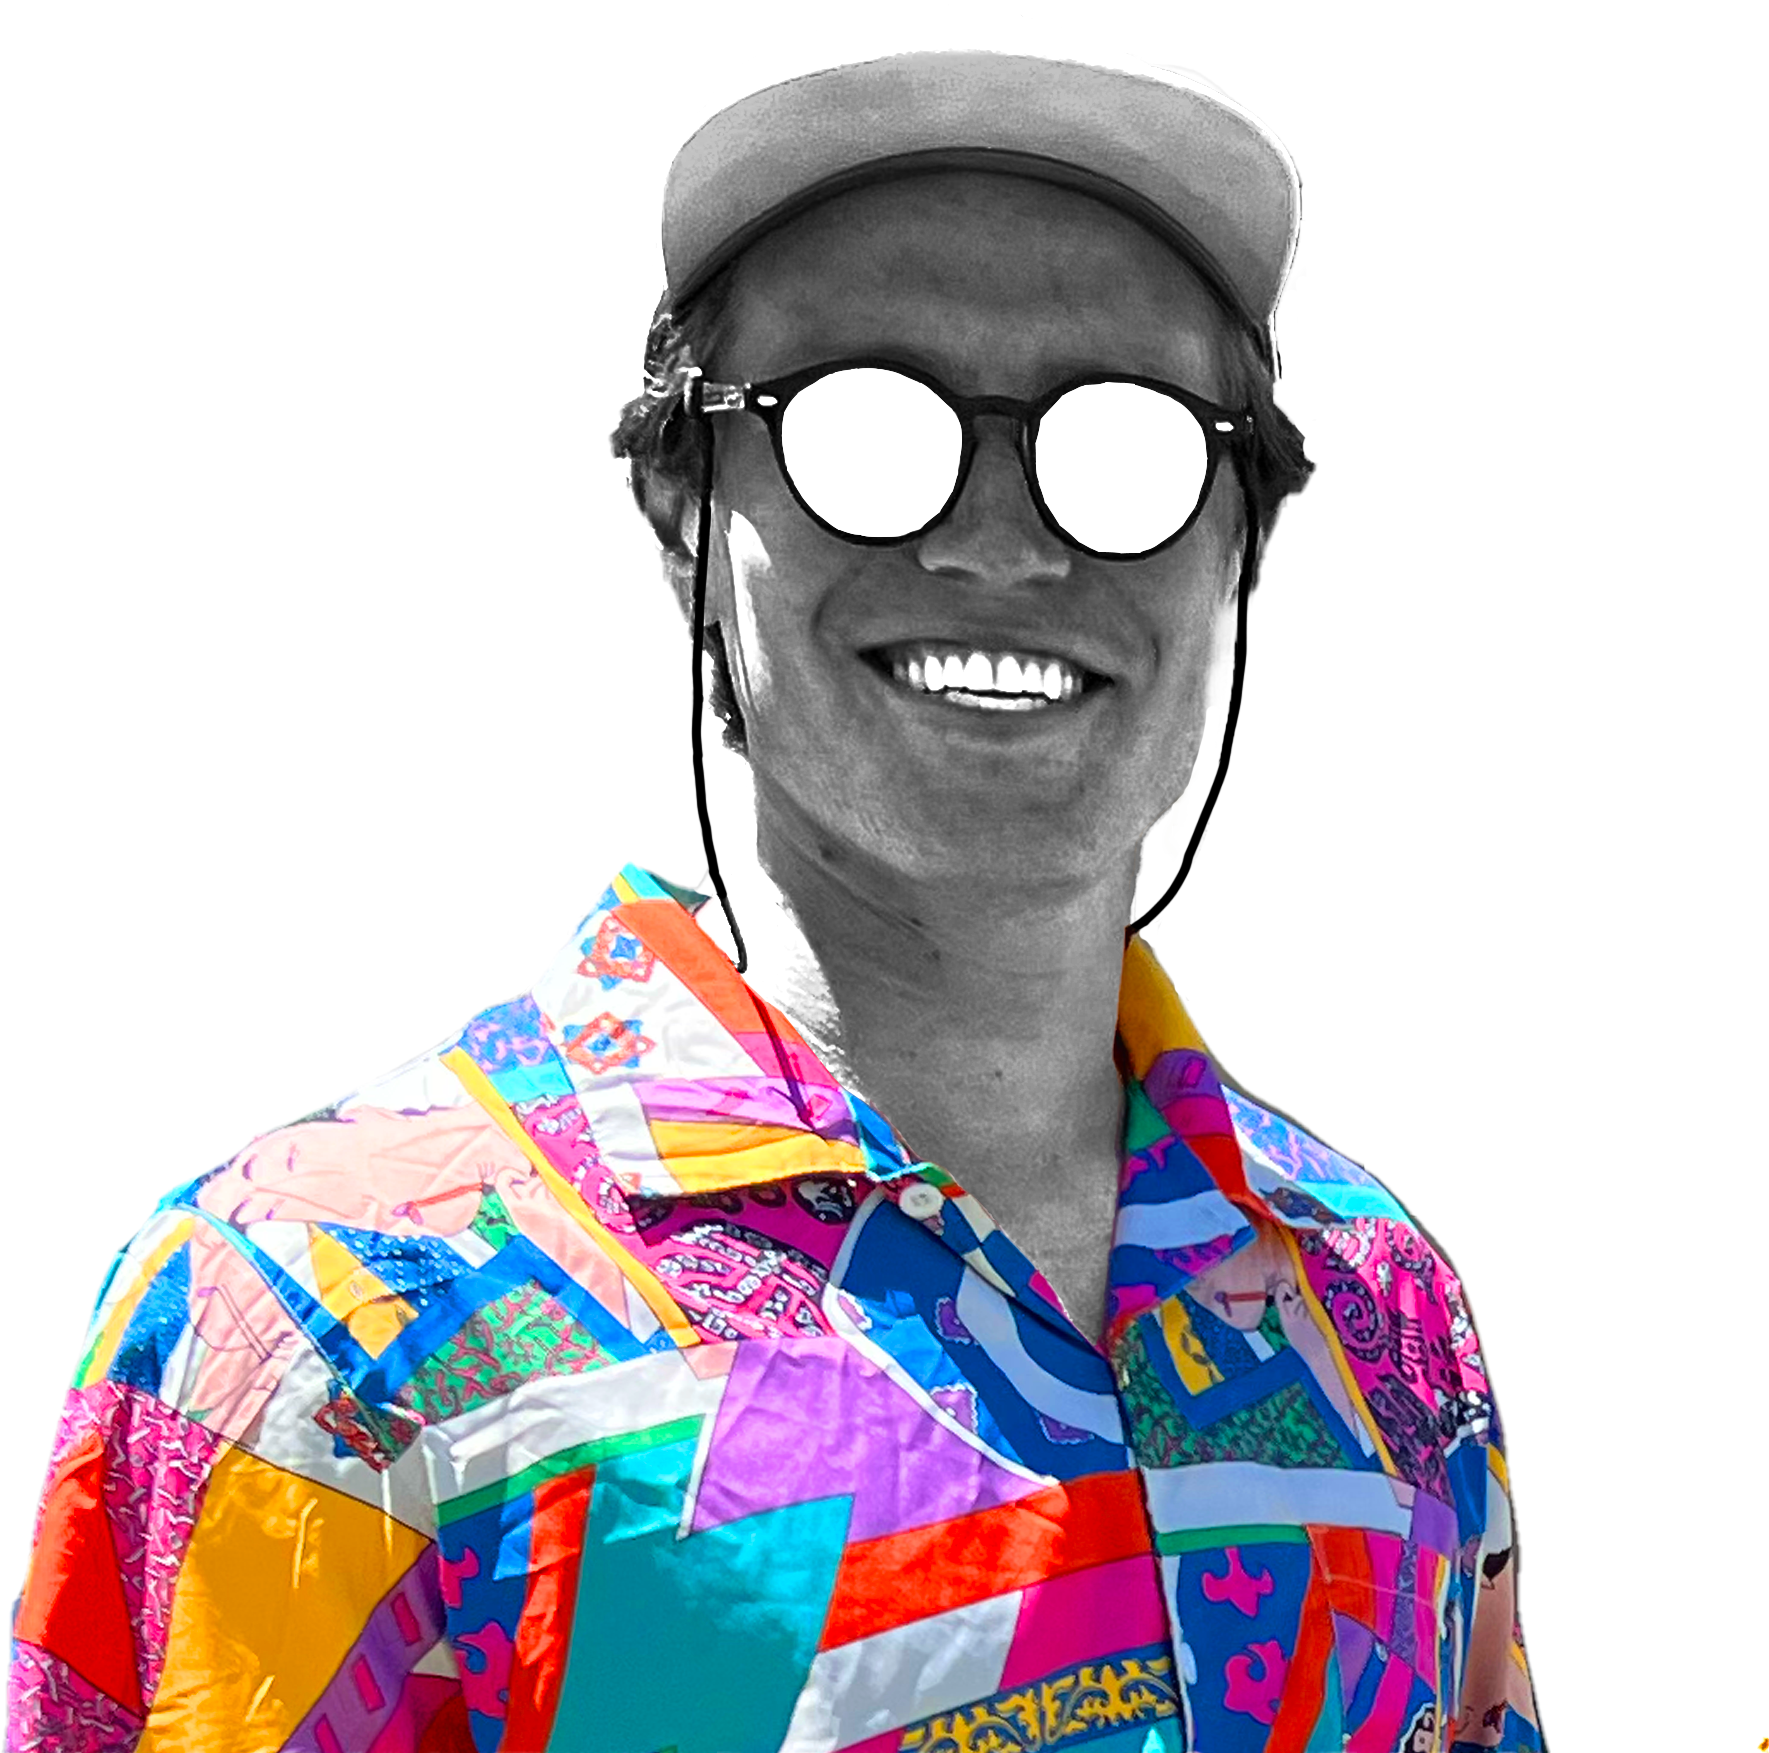
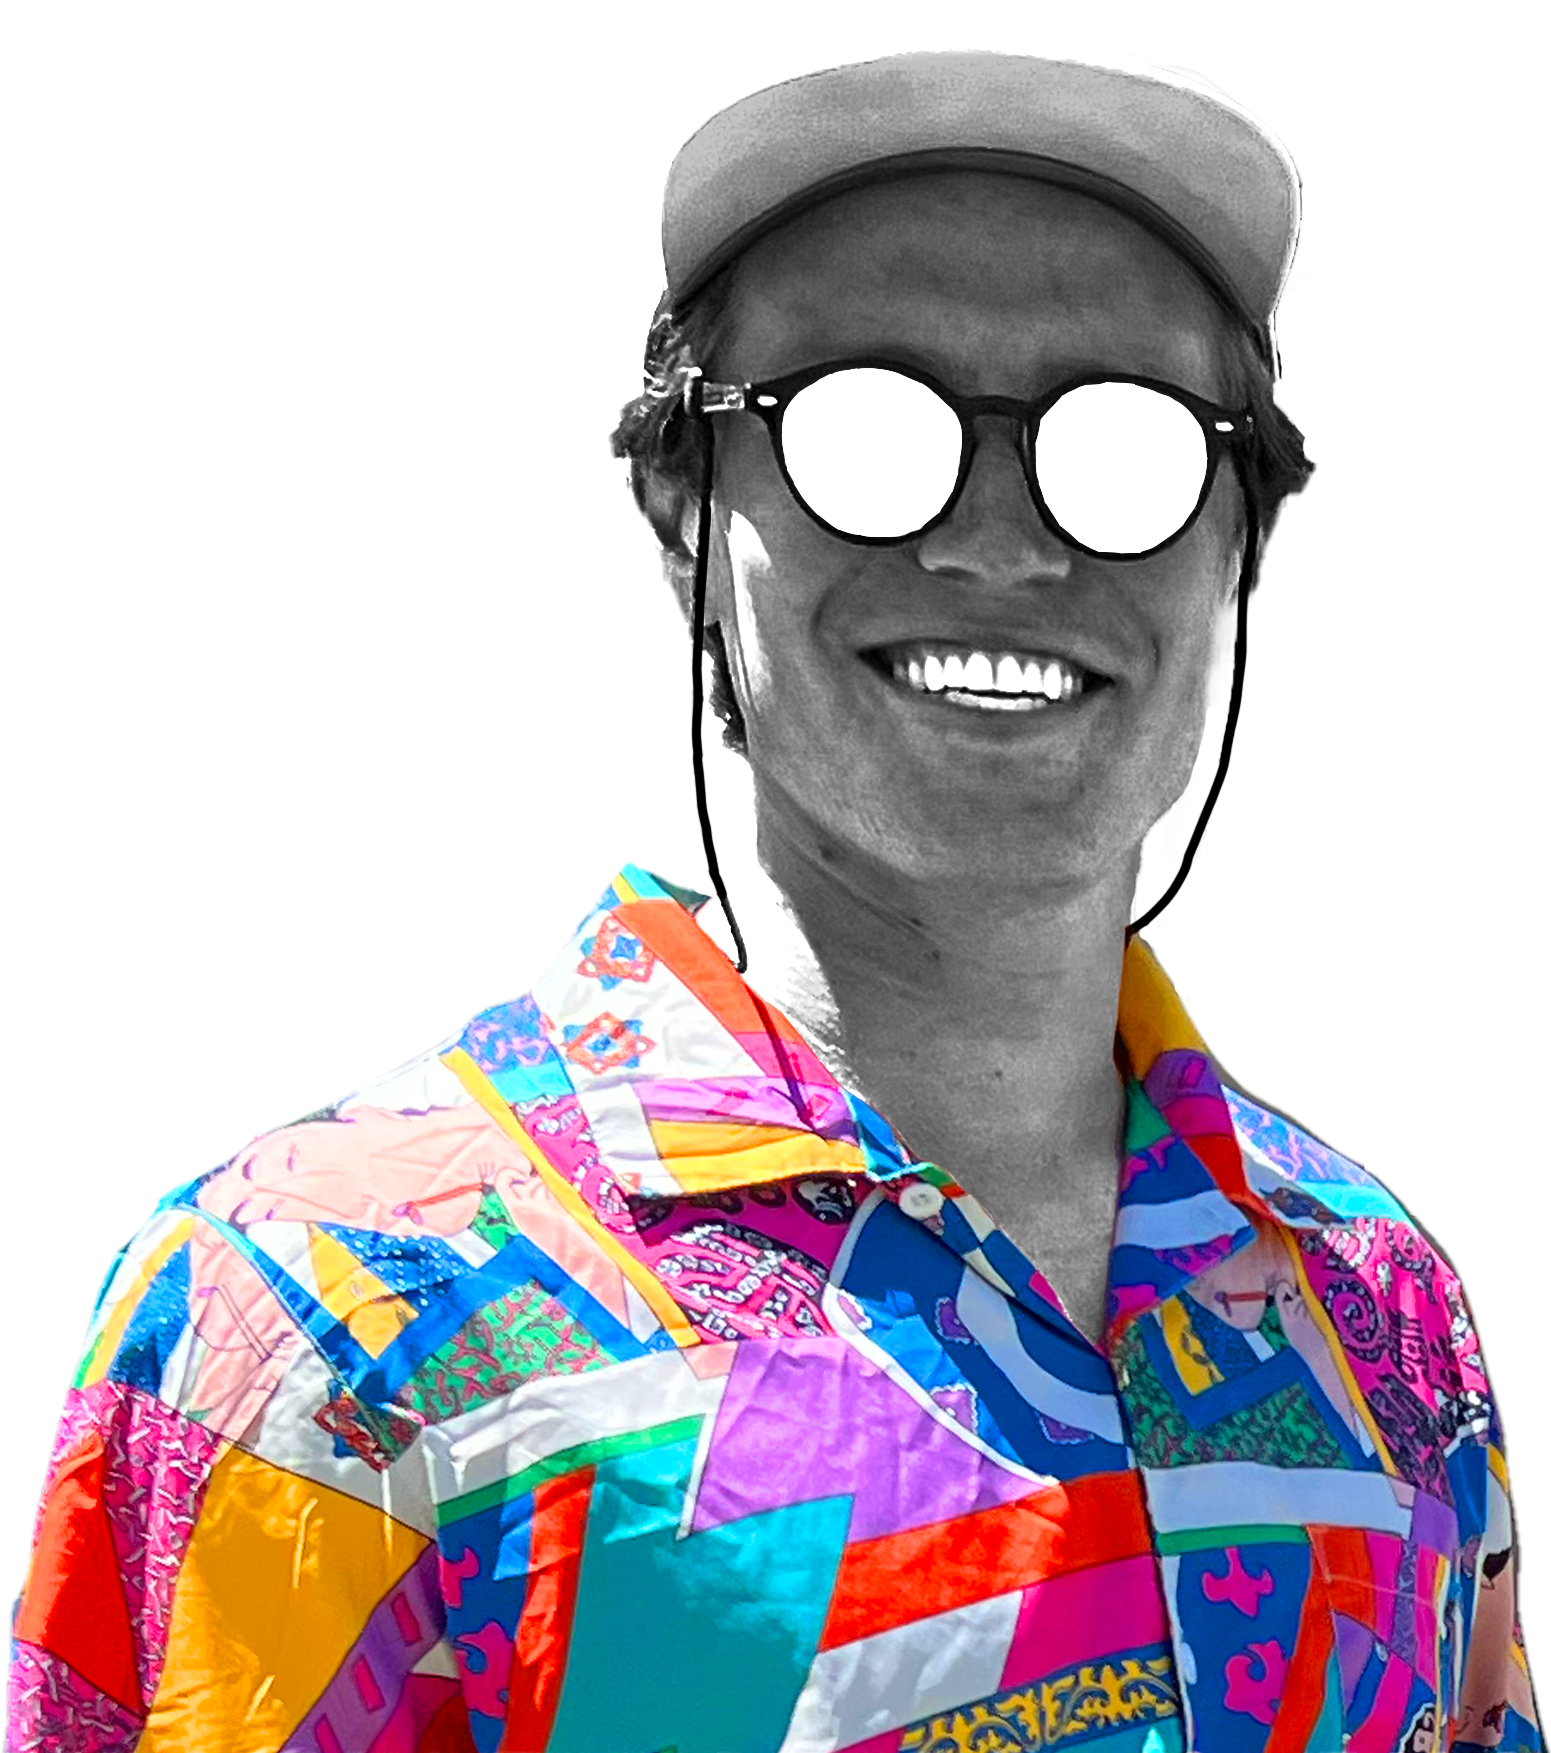
gets letters movement and overlap working

diff --git a/components/InteractiveSubHeader.js b/components/InteractiveSubHeader.js
@@ -1,31 +1,53 @@
 import Image from "next/image";
-import { useState } from "react";
+import { useState, useRef } from "react";
+import { motion } from "framer-motion";
+import { MoveableLetter } from "./MoveableLetter";
+import { CutoutShape } from "./CutoutShape";
 
 export const InteractiveSubHeader = ({}) => {
   const [degree, setDegree] = useState(0);
+  const constraintsRef = useRef(null);
 
   const handleRotate = () => {
     setDegree(degree + 30);
   };
 
   return (
-    <div className="relative h-full w-full">
+    <motion.div className="relative h-full w-full">
+      <span className="h-[400px]">
+        <CutoutShape />{" "}
+      </span>
       <div
-        className="relative flex justify-center items-end h-full drop-shadow-xl"
-        onClick={() => handleRotate()}
+        className="relative flex justify-end items-end h-full w-4/5"
+        ref={constraintsRef}
       >
-        <span
-          className="bg-teal-900 h-24 w-28 absolute top-24 rounded-full ml-4"
-          style={{ filter: `hue-rotate(${degree}deg)` }}
-        />
+        <div className="absolute left-0 flex flex-col z-30 h-full gap-2 justify-top pt-4 pl-4">
+          <span className="flex flex-none gap-2">
+            <MoveableLetter constraintsRef={constraintsRef} letter="S" />
+            <MoveableLetter constraintsRef={constraintsRef} letter="A" />
+            <MoveableLetter constraintsRef={constraintsRef} letter="M" />
+          </span>
+          <span className="flex flex-none gap-2">
+            <MoveableLetter constraintsRef={constraintsRef} letter="T" />
+            <MoveableLetter constraintsRef={constraintsRef} letter="A" />
+            <MoveableLetter constraintsRef={constraintsRef} letter="N" />
+            <MoveableLetter constraintsRef={constraintsRef} letter="N" />
+            <MoveableLetter constraintsRef={constraintsRef} letter="E" />
+            <MoveableLetter constraintsRef={constraintsRef} letter="R" />
+          </span>
+        </div>
+
+        {/* <div className="flex-none z-10"> */}
         <Image
           src="/img/headshot.png"
-          width={350}
-          height={300}
+          width={320}
+          height={320}
           alt="Sam Tanner"
           style={{ filter: `hue-rotate(${degree}deg)` }}
+          onClick={() => handleRotate()}
         />
+        {/* </div> */}
       </div>
-    </div>
+    </motion.div>
   );
 };

diff --git a/components/MoveableLetter.js b/components/MoveableLetter.js
@@ -1,0 +1,20 @@
+import { motion } from "framer-motion";
+import { useState, useRef } from "react";
+
+export const MoveableLetter = ({ constraintsRef, letter }) => {
+  const [isDragging, setIsDragging] = useState(false);
+
+  return (
+    <motion.div
+      className={`hover:z-40 bg-gray-900 h-16 w-16 text-6xl text-bold flex items-center justify-center drop-shadow-xl self-center flex-none`}
+      drag
+      dragConstraints={constraintsRef}
+      dragTransition={{ bounceStiffness: 600, bounceDamping: 100 }}
+      dragElastic={0.5}
+      whileTap={{ cursor: "grabbing" }}
+      onClick={() => setIsDragging(!isDragging)}
+    >
+      {letter}
+    </motion.div>
+  );
+};

diff --git a/components/CutoutShape.js b/components/CutoutShape.js
@@ -6,11 +6,11 @@ export const CutoutShape = ({ children }) => {
       viewBox="0 0 42 56.69"
       version="1.0"
       encoding="UTF-8"
-      className="flex absolute -right-0 h-[400px] text-zinc-900 fill-current"
+      className="flex absolute -right-0 h-[400px] text-zinc-900 fill-current z-20"
     >
       <g id="Layer_1-2">
         <path
-          class="cls-1"
+          className="cls-1"
           d="M42.52,56.69H0c15.55,0,28.35-12.8,28.35-28.35S15.55,0,0,0H42.52V56.69Z"
         />
       </g>

diff --git a/pages/index.js b/pages/index.js
@@ -14,7 +14,7 @@ export default function Home() {
       </Head>
       <Header />
       <div className="h-[400px]">
-        <CutoutShape />
+        {/* <CutoutShape /> */}
         <InteractiveSubHeader />
       </div>
 
